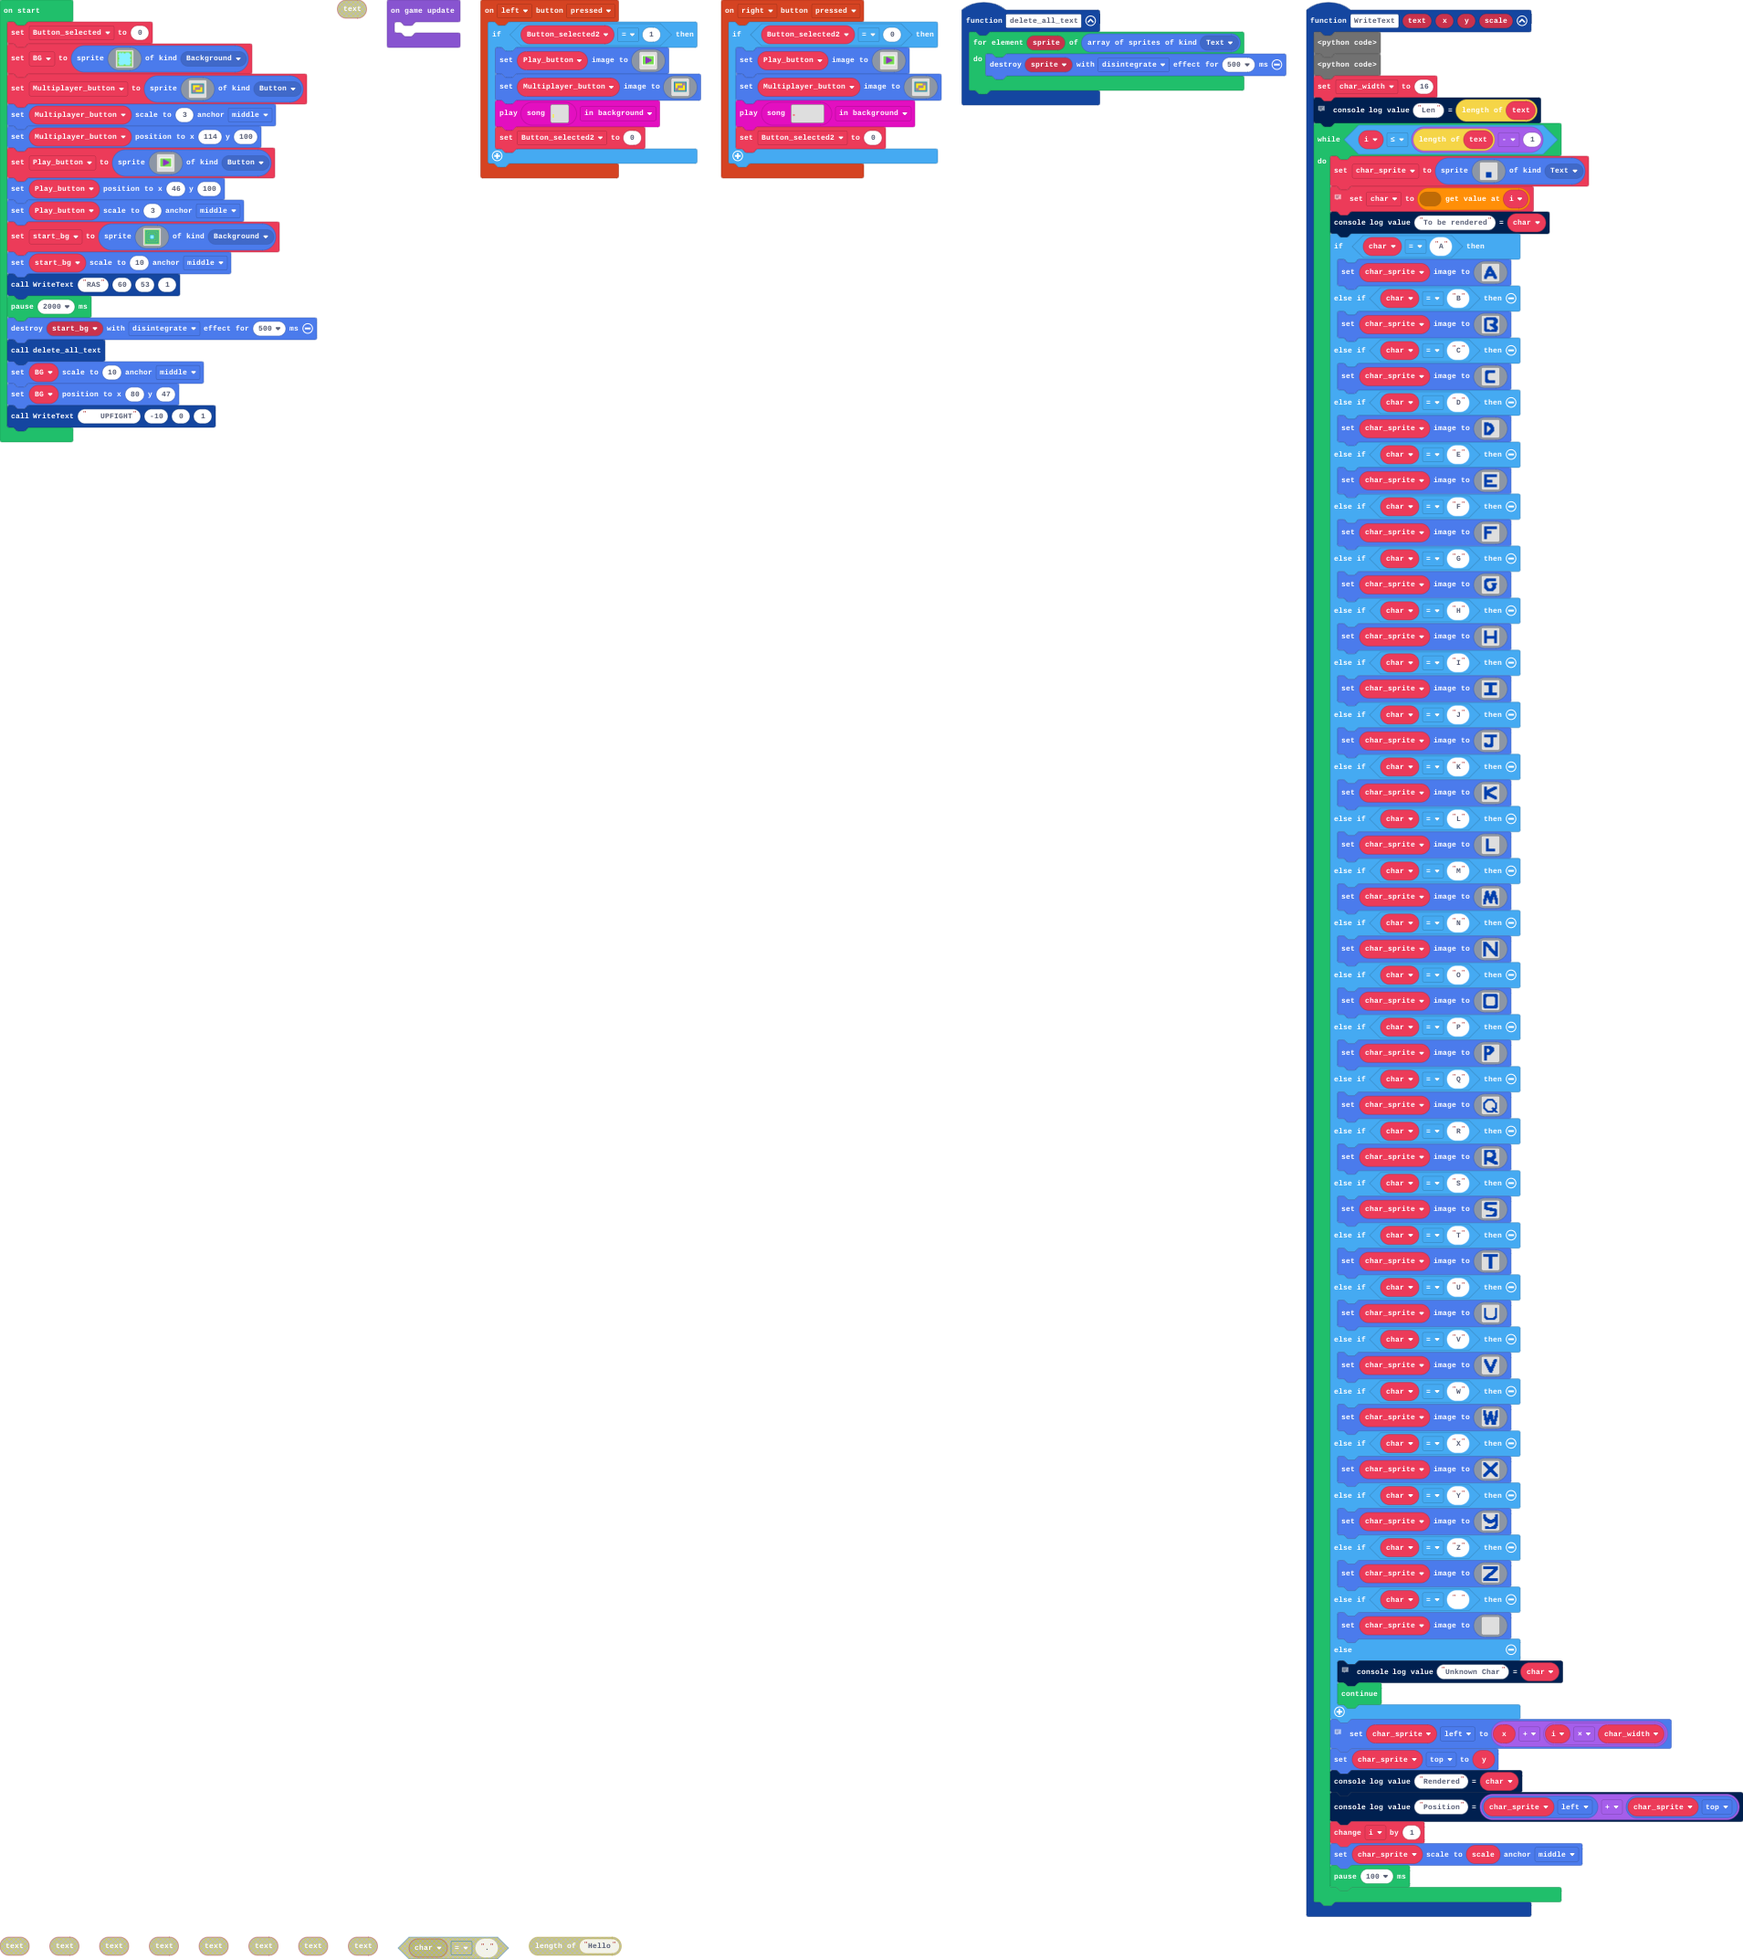
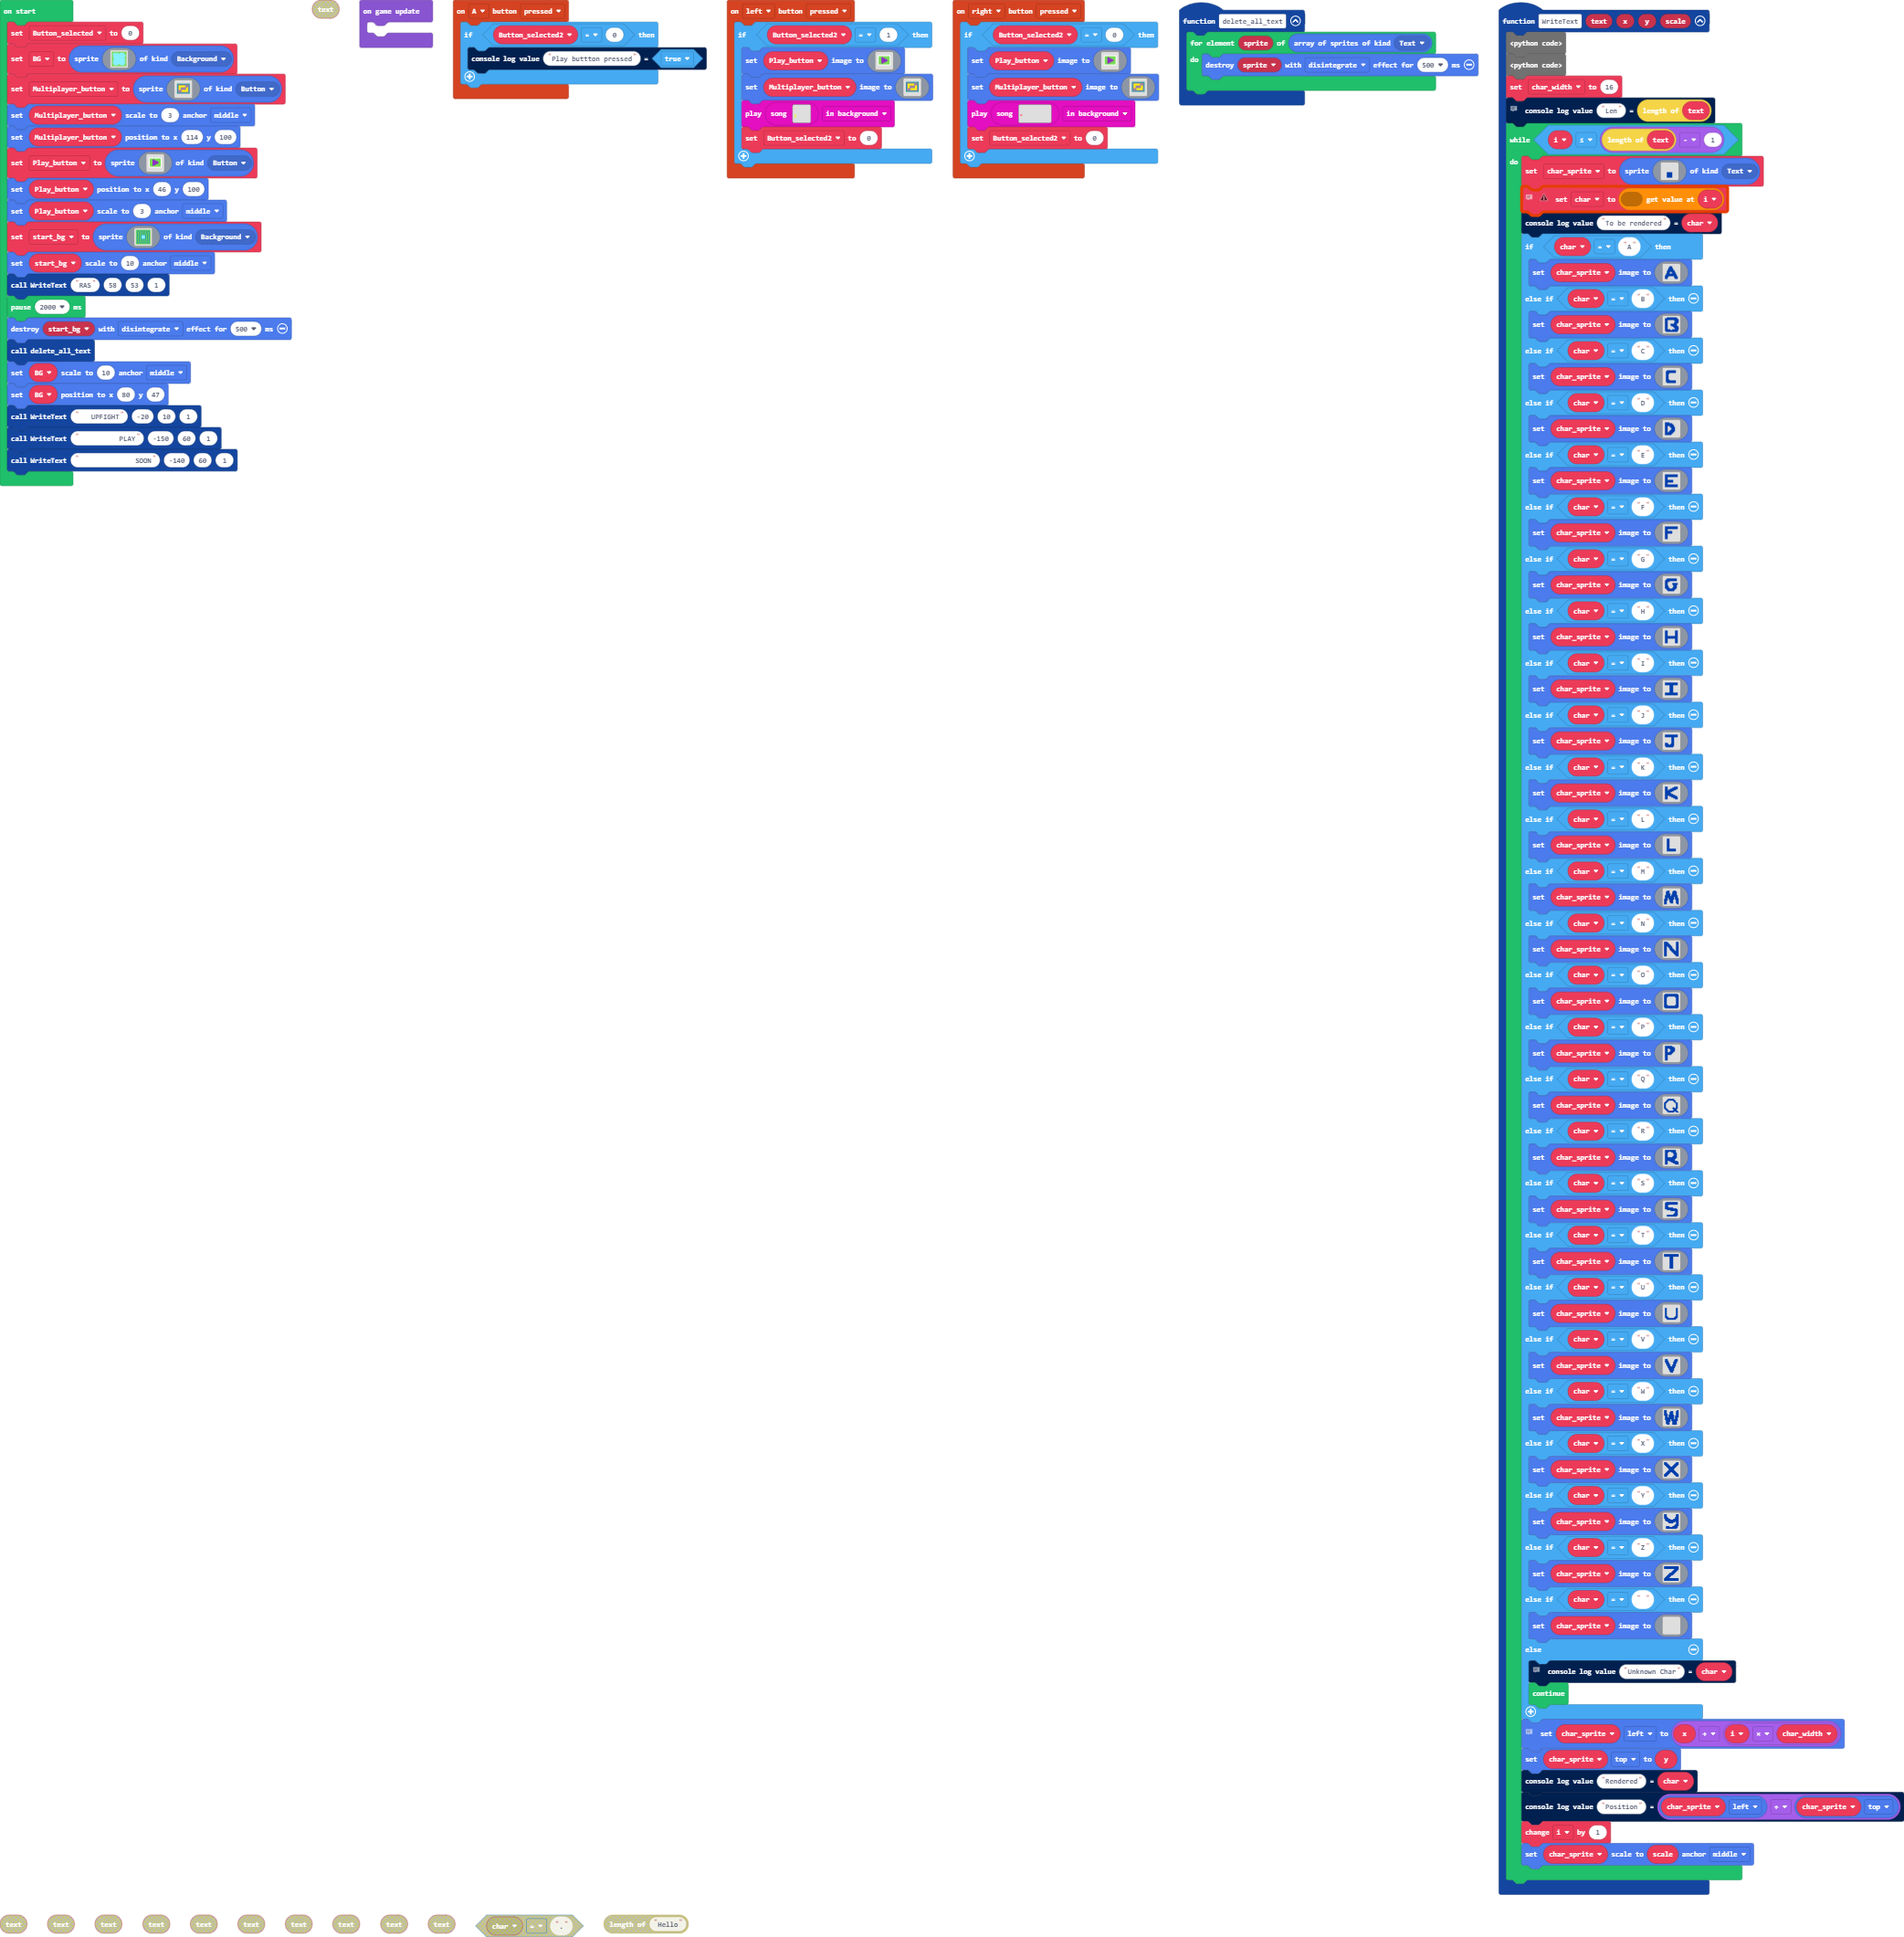
Update main.blocks, main.ts, main.py

Changed region(s): [[0.0, 0.0, 1.0, 0.9958], [0.0, 0.9646, 0.3709, 1.0]]

diff --git a/main.ts b/main.ts
@@ -7,23 +7,33 @@ namespace SpriteKind {
 
 function delete_all_text() {
     for (let sprite of sprites.allOfKind(SpriteKind.Text)) {
+        sprites.destroy(sprite)
+    }
+}
+
+function delete_all_text_effect() {
+    for (let sprite of sprites.allOfKind(SpriteKind.Text)) {
         sprites.destroy(sprite, effects.disintegrate, 500)
     }
 }
 
 controller.left.onEvent(ControllerButtonEvent.Pressed, function on_left_pressed() {
     
-    if (Button_selected2 == 1) {
-        Play_button.setImage(assets.image`
-            Play button selected
-        `)
-        Multiplayer_button.setImage(assets.image`
-            Multiplayer button
-        `)
-        music.play(music.createSong(assets.song`
-                Ding
-            `), music.PlaybackMode.InBackground)
-        Button_selected2 = 0
+    if (menu == true) {
+        if (Button_selected2 == 1) {
+            Play_button.setImage(assets.image`
+                Play button selected
+            `)
+            Multiplayer_button.setImage(assets.image`
+                Multiplayer button
+            `)
+            music.play(music.createSong(assets.song`
+                    Ding
+                `), music.PlaybackMode.InBackground)
+            Button_selected2 = 0
+            console.logValue("Button", "Play")
+        }
+        
     }
     
 })
@@ -167,17 +177,21 @@ function WriteText(text: string, x: number, y: number, scale: number) {
 
 controller.right.onEvent(ControllerButtonEvent.Pressed, function on_right_pressed() {
     
-    if (Button_selected2 == 0) {
-        Play_button.setImage(assets.image`
-            Play button selected
-        `)
-        Multiplayer_button.setImage(assets.image`
-            Multiplayer button
-        `)
-        music.play(music.createSong(assets.song`
-                error
-            `), music.PlaybackMode.InBackground)
-        Button_selected2 = 0
+    if (menu == true) {
+        if (Button_selected2 == 0) {
+            Play_button.setImage(assets.image`
+                Play button
+            `)
+            Multiplayer_button.setImage(assets.image`
+                Multiplayer button selected
+            `)
+            music.play(music.createSong(assets.song`
+                    Ding
+                `), music.PlaybackMode.InBackground)
+            Button_selected2 = 1
+            console.logValue("Button", "Multiplayer")
+        }
+        
     }
     
 })
@@ -187,6 +201,7 @@ let Button_selected2 = 0
 let Play_button : Sprite = null
 let Multiplayer_button : Sprite = null
 let Button_selected = 0
+let menu = true
 let BG = sprites.create(assets.image`
     Background
 `, SpriteKind.Background)
@@ -205,15 +220,40 @@ start_bg.setScale(10, ScaleAnchor.Middle)
 WriteText("RAS", 58, 53, 1)
 pause(2000)
 sprites.destroy(start_bg, effects.disintegrate, 500)
-delete_all_text()
+delete_all_text_effect()
 BG.setScale(10, ScaleAnchor.Middle)
 BG.setPosition(80, 47)
 WriteText("   UPFIGHT", -20, 10, 1)
 WriteText("          PLAY", -150, 60, 1)
 WriteText("              SOON", -140, 60, 1)
+function start_game() {
+    delete_all_text()
+    sprites.destroy(BG)
+    sprites.destroy(Play_button)
+    sprites.destroy(Multiplayer_button)
+    
+    Button_selected2 == 3
+    
+    menu = false
+    let Glorb = sprites.create(assets.image`
+            Glorb
+        `, SpriteKind.Button)
+    controller.moveSprite(Glorb)
+    Glorb.setStayInScreen(true)
+}
+
 controller.A.onEvent(ControllerButtonEvent.Pressed, function on_event_pressed() {
-    if (Button_selected2 == 0) {
-        console.logValue("Play buttton pressed", true)
+    if (menu == true) {
+        if (Button_selected2 == 0) {
+            console.logValue("Play buttton pressed", true)
+            start_game()
+        } else if (Button_selected2 == 1) {
+            console.logValue("Multiplayer buttton pressed", true)
+            music.play(music.createSong(assets.song`
+                            error
+                        `), music.PlaybackMode.InBackground)
+        }
+        
     }
     
 })

diff --git a/main.py b/main.py
@@ -6,22 +6,28 @@ class SpriteKind:
     Text = SpriteKind.create()
 def delete_all_text():
     for sprite in sprites.all_of_kind(SpriteKind.Text):
+        sprites.destroy(sprite)
+
+def delete_all_text_effect():
+    for sprite in sprites.all_of_kind(SpriteKind.Text):
         sprites.destroy(sprite, effects.disintegrate, 500)
 
 def on_left_pressed():
     global Button_selected2
-    if Button_selected2 == 1:
-        Play_button.set_image(assets.image("""
-            Play button selected
-        """))
-        Multiplayer_button.set_image(assets.image("""
-            Multiplayer button
-        """))
-        music.play(music.create_song(assets.song("""
-                Ding
-            """)),
-            music.PlaybackMode.IN_BACKGROUND)
-        Button_selected2 = 0
+    if menu == True:
+        if Button_selected2 == 1:
+            Play_button.set_image(assets.image("""
+                Play button selected
+            """))
+            Multiplayer_button.set_image(assets.image("""
+                Multiplayer button
+            """))
+            music.play(music.create_song(assets.song("""
+                    Ding
+                """)),
+                music.PlaybackMode.IN_BACKGROUND)
+            Button_selected2 = 0
+            console.log_value("Button", "Play")
 controller.left.on_event(ControllerButtonEvent.PRESSED, on_left_pressed)
 
 def WriteText(text: str, x: number, y: number, scale: number):
@@ -160,18 +166,20 @@ def WriteText(text: str, x: number, y: number, scale: number):
 
 def on_right_pressed():
     global Button_selected2
-    if Button_selected2 == 0:
-        Play_button.set_image(assets.image("""
-            Play button selected
-        """))
-        Multiplayer_button.set_image(assets.image("""
-            Multiplayer button
-        """))
-        music.play(music.create_song(assets.song("""
-                error
-            """)),
-            music.PlaybackMode.IN_BACKGROUND)
-        Button_selected2 = 0
+    if menu == True:
+        if Button_selected2 == 0:
+            Play_button.set_image(assets.image("""
+                Play button
+            """))
+            Multiplayer_button.set_image(assets.image("""
+                Multiplayer button selected
+            """))
+            music.play(music.create_song(assets.song("""
+                    Ding
+                """)),
+                music.PlaybackMode.IN_BACKGROUND)
+            Button_selected2 = 1
+            console.log_value("Button", "Multiplayer")
 controller.right.on_event(ControllerButtonEvent.PRESSED, on_right_pressed)
 
 i = 0
@@ -180,6 +188,7 @@ Button_selected2 = 0
 Play_button: Sprite = None
 Multiplayer_button: Sprite = None
 Button_selected = 0
+menu = True
 BG = sprites.create(assets.image("""
     Background
 """), SpriteKind.Background)
@@ -200,7 +209,7 @@ start_bg.set_scale(10, ScaleAnchor.MIDDLE)
 WriteText("RAS", 58, 53, 1)
 pause(2000)
 sprites.destroy(start_bg, effects.disintegrate, 500)
-delete_all_text()
+delete_all_text_effect()
 BG.set_scale(10, ScaleAnchor.MIDDLE)
 BG.set_position(80, 47)
 WriteText("   UPFIGHT", -20, 10, 1)
@@ -210,9 +219,34 @@ WriteText("              SOON", -140, 60, 1)
 def on_on_update():
     pass
     
+def start_game():
+    delete_all_text()
+    sprites.destroy(BG)
+    sprites.destroy(Play_button)
+    sprites.destroy(Multiplayer_button)
+    global Button_selected2
+    Button_selected2 == 3
+    global menu
+    menu = False
+    Glorb = sprites.create(assets.image("""
+            Glorb
+        """),
+        SpriteKind.Button)
+    controller.move_sprite(Glorb)
+    Glorb.set_stay_in_screen(True)
+    
 def on_event_pressed():
-    if Button_selected2 == 0:
-        console.log_value("Play buttton pressed", True)
+    if menu == True:
+        if Button_selected2 == 0:
+            console.log_value("Play buttton pressed", True)
+            start_game()
+        elif Button_selected2 == 1:
+            console.log_value("Multiplayer buttton pressed", True)
+            music.play(music.create_song(assets.song("""
+                            error
+                        """)),
+                        music.PlaybackMode.IN_BACKGROUND)
+
 
 controller.A.on_event(ControllerButtonEvent.PRESSED, on_event_pressed)
 game.on_update(on_on_update)
